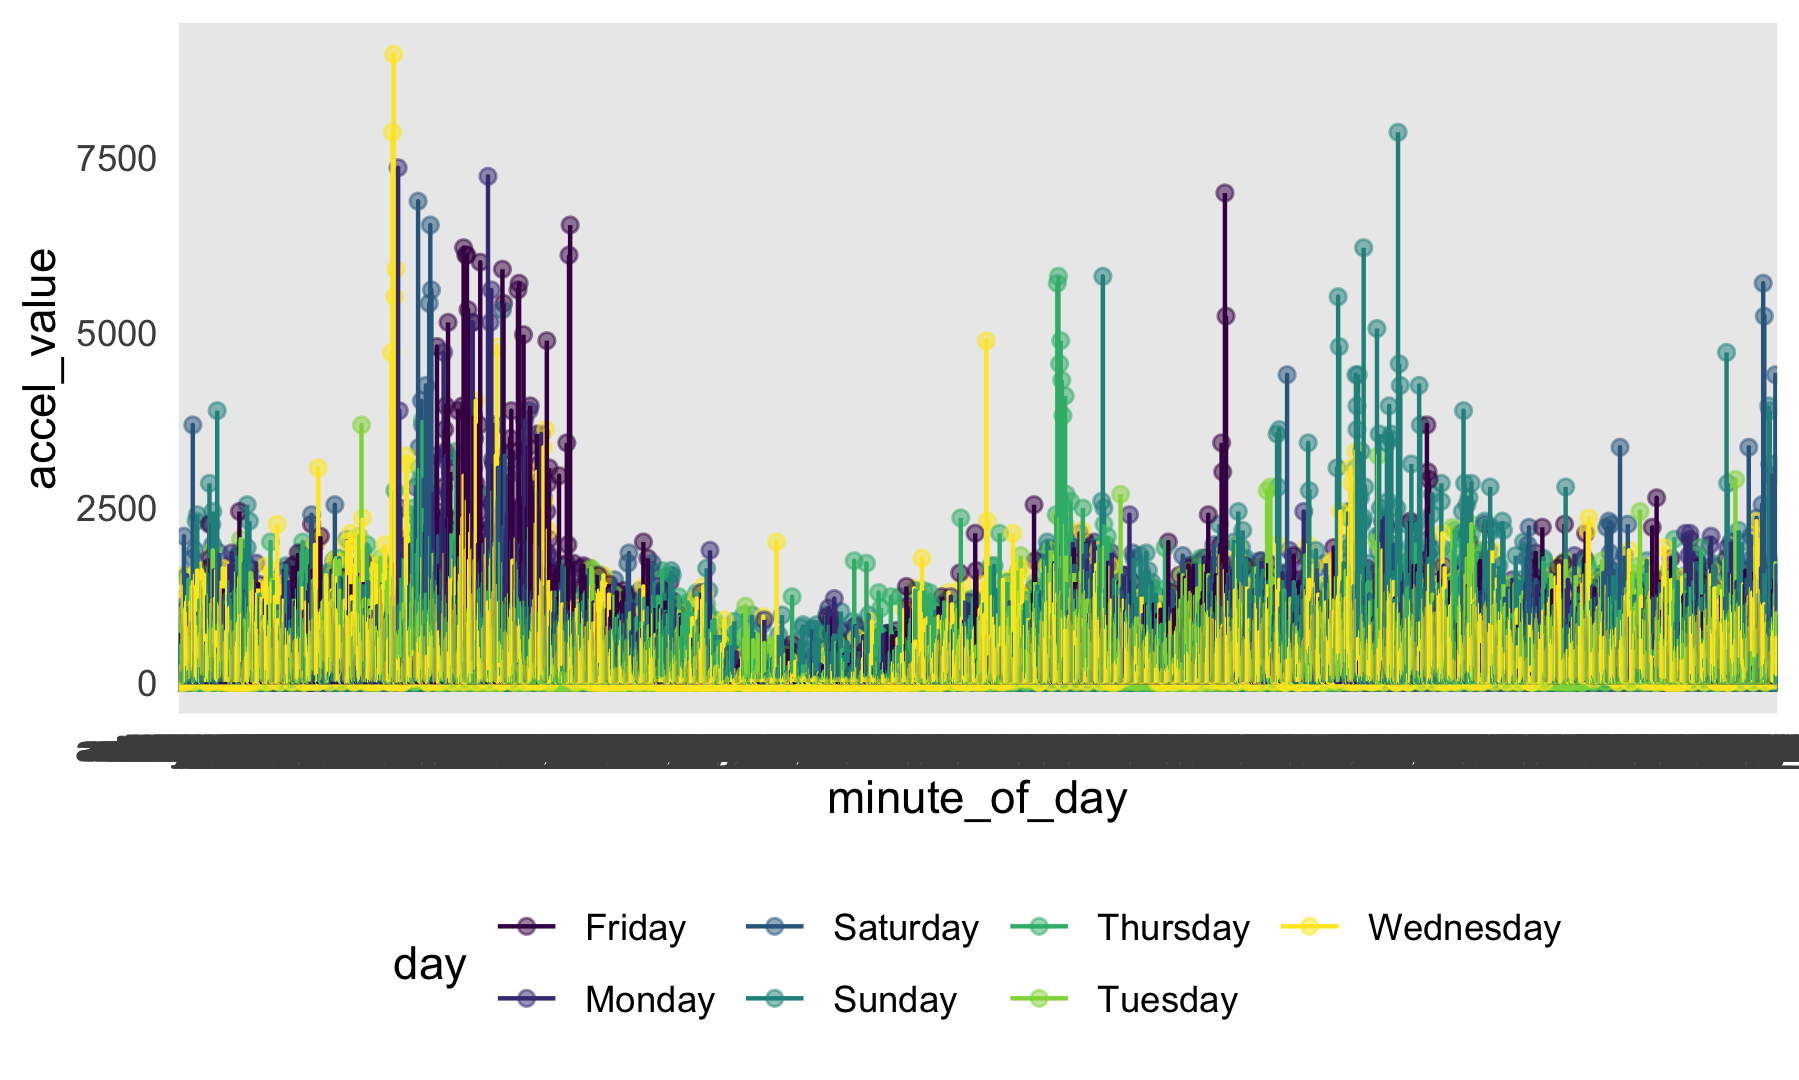
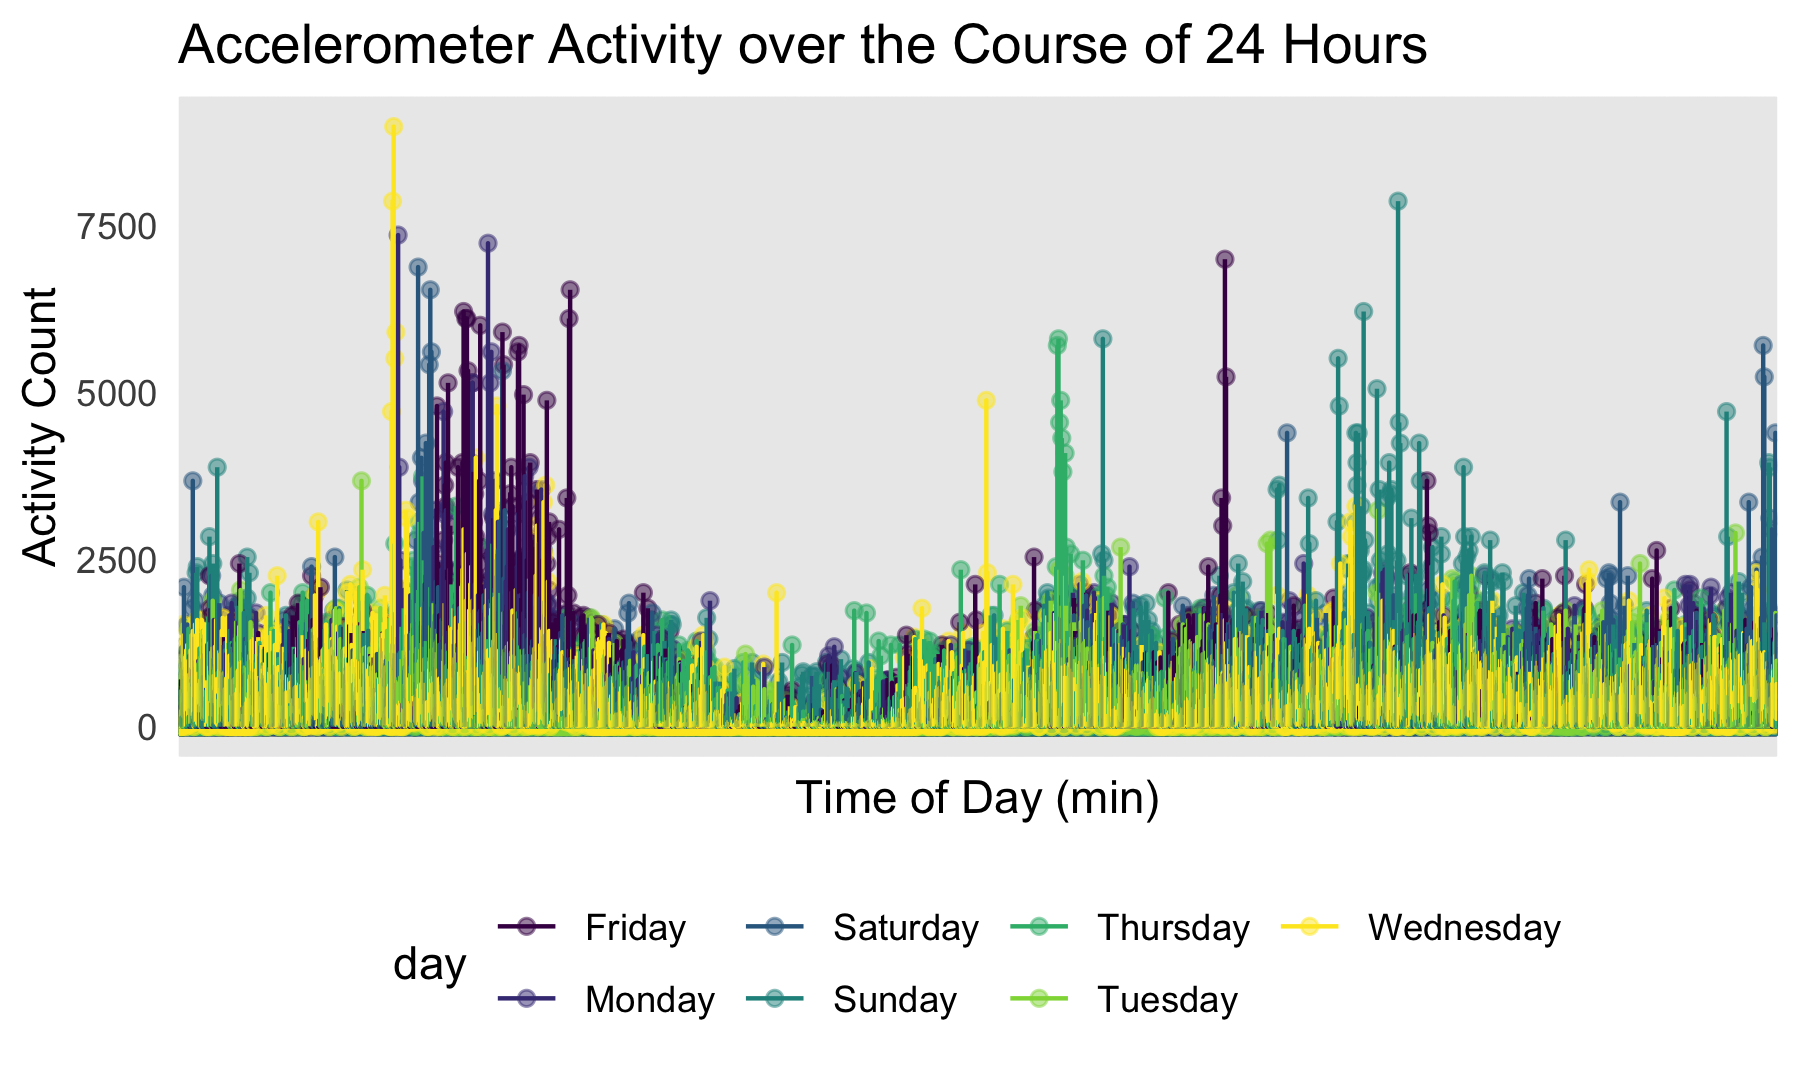
Made edits and added in in-line text

diff --git a/p8105_hw3_mjn2142.md b/p8105_hw3_mjn2142.md
@@ -27,6 +27,8 @@ scale_fill_discrete = scale_fill_viridis_d
 
 ### Problem 1
 
+## Loading Instacart Dataset
+
 ``` r
 library(p8105.datasets)
 data("instacart")
@@ -44,6 +46,8 @@ made clear by this example, important variables take both numeric and
 alphabetic forms. Certain columns will also be made up of distinct data
 while others will have a few highly repeated categories.
 
+## Table Showing Most Items Ordered From
+
 ``` r
 aisle_df = instacart %>% 
   group_by(aisle) %>% 
@@ -55,17 +59,35 @@ There are 134 aisles with “fresh vegetables,” “fresh fruits,” and
 “packaged vegetables fruits” as the three most popular in terms of items
 ordered.
 
+## Plot of Number of Items Ordered in Each Aisle
+
 ``` r
 aisle_plot = aisle_df %>% 
   filter(
     aisle_obs > 10000
   ) %>% 
-  ggplot(aes(x = aisle, y = aisle_obs)) +
-  geom_point()
+  ggplot(aes(x = aisle, y = aisle_obs, color = aisle)) +
+  geom_point() +
+  labs(
+    title = "Items Ordered in Given Aisles",
+    x = "Aisles",
+    y = "Items Ordered"
+  ) +
+  theme(
+    axis.text.x = element_blank(),
+    legend.text = element_text(size = 5)
+    )
+
+ggsave("aisle_plot.png")
+knitr::include_graphics("aisle_plot.png")
 ```
+
+<img src="aisle_plot.png" width="90%" />
 
 Most of the data points are below 40,000 in this plot, with only 5
 aisles that have more than 40,000 items ordered
+
+## Table of Most Popular Items in 3 Specific Aisles
 
 ``` r
 popular_item_df = 
@@ -206,6 +228,8 @@ Sugar (499 orders), the most popular in dog food care is “Snack Sticks
 Chicken & Rice Recipe Dog Treats” (30 orders), and the most poular in
 packaged vegetables fruits is “Organic Baby Spinach” (9784 orders).
 
+## Pink Lady Apple and Coffee Ice Cream Table
+
 ``` r
 apple_icecream_df = instacart %>% 
   mutate(
@@ -330,6 +354,8 @@ appear to present any trend for mean times at which they are ordered.
 
 ### Problem 2
 
+## Cleaning of BRFSS Dataset
+
 ``` r
 data("brfss_smart2010")
 
@@ -364,6 +390,8 @@ brfss_df = brfss_smart2010 %>%
   )
 ```
 
+## Analyzing 2002 and 2010 data
+
 ``` r
 two_thousand_two_df = brfss_df %>% 
   filter(year == "2002") %>% 
@@ -385,6 +413,8 @@ inappropriate to say based on this table alone there was a trend in
 terms of increases or decreases in numbers of locations observed per
 state.
 
+## Plot of Excellent Responses
+
 ``` r
 excellent_df = brfss_df %>% 
   filter(response == "Excellent") %>% 
@@ -393,7 +423,12 @@ excellent_df = brfss_df %>%
   ggplot(aes(x = year, y = data_value_mean, group = locationabbr, color = locationabbr)) +
   geom_point() +
   geom_line(alpha = 0.5) +
-  theme(legend.position = "right")
+  theme(legend.position = "right") +
+  labs(
+    title = "BRFSS Data 2002-2010",
+    x = "Year",
+    y = "Data Value Mean"
+    )
 
 ggsave("excellent_plot.png")
 knitr::include_graphics("excellent_plot.png")
@@ -404,8 +439,10 @@ knitr::include_graphics("excellent_plot.png")
 This spaghetti plot shows that values will both increase as well as
 decrease across the years for a single state.
 
+## Plot of Data Values in NY
+
 ``` r
-ny_df = brfss_df %>% 
+ny_plot = brfss_df %>% 
   filter(
     locationabbr == "NY",
     year == "2006" | year == "2010"
@@ -415,7 +452,15 @@ ny_df = brfss_df %>%
     ) %>% 
   ggplot(aes(x = response, y = data_value, color = year)) +
   geom_point(alpha = 0.5) +
-  facet_grid(.~year)
+  facet_grid(.~year) +
+  labs(
+    title = "Data Value Distribution in NY 2006 and 2010",
+    x = "Response",
+    y = "Data Value"
+  ) +
+  theme(
+    axis.text.x = element_text(size = 7)
+  )
 
 ggsave("ny_plot.png")
 knitr::include_graphics("ny_plot.png")
@@ -429,7 +474,7 @@ most popular responses, “Excellent” being in the middle, and “Fair” and
 
 ### Problem 3
 
-Tidying accelerometer data
+## Tidying accelerometer data
 
 ``` r
 accel_df = read_csv("./accel_data.csv") %>% 
@@ -437,6 +482,7 @@ accel_df = read_csv("./accel_data.csv") %>%
   mutate(
     week_classification = ifelse(day == "Saturday" | day == "Sunday", "Weekend", "Weekday")
   ) %>% 
+  mutate_if(is.numeric, round) %>% 
   relocate(week, day_id, day, week_classification)
 ```
 
@@ -451,7 +497,13 @@ accel_df = read_csv("./accel_data.csv") %>%
     ## ℹ Use `spec()` to retrieve the full column specification for this data.
     ## ℹ Specify the column types or set `show_col_types = FALSE` to quiet this message.
 
-Create aggregate variable
+The tidied accelerometer dataset has variables for week, day\_id, day,
+week\_classification, and then 1440 columns of accelerometer
+representing each minute of the day. The table is 35 rows by 1440
+columns (50,400 observations). The data set is quite large and, notably,
+extremely wide in structure.
+
+## Create aggregate variable
 
 ``` r
 aggregate_accel_df = accel_df %>% 
@@ -461,9 +513,17 @@ aggregate_accel_df = accel_df %>%
   relocate(week, day_id, day, week_classification, aggregate_activity)
 ```
 
-ADD TREND COMMENTS.
+It appears from this data table that the accelerometer was not used on
+certain days. On two days specifically, the sum of all readings equaled
+1440.00, which indicates that the accelerometer had a reading of ‘1’ at
+every meaning of the day. Since 1 is its lowest reportable count, it
+indicates that personal negligence on the part of the participant
+affected the data, and on certain days led to no readings at all. Beyond
+that, it is difficult to draw many conclusions from evaluating the total
+activity for each day, as it seems size in totals don’t neatly
+correspond to specific days of the week.
 
-Accelerometer plot
+## Accelerometer plot
 
 ``` r
 accel_plot = accel_df %>% 
@@ -474,10 +534,21 @@ accel_plot = accel_df %>%
     ) %>% 
   ggplot(aes(x = minute_of_day, y = accel_value, color = day)) +
   geom_point(alpha = 0.5) +
-  geom_line()
+  geom_line() +
+  labs(
+    title = "Accelerometer Activity over the Course of 24 Hours",
+    x = "Time of Day (min)",
+    y = "Activity Count"
+  ) +
+  theme(axis.text.x = element_blank())
 
 ggsave("accel_plot.png")
 knitr::include_graphics("accel_plot.png")
 ```
 
 <img src="accel_plot.png" width="90%" />
+
+Based on this plot, it appears that certain days, such as Tuesday,
+Wednesday, and Thursday, have lower readings during every minute of the
+day. Fridays seem to have high readings very early in the day, and
+Sundays tend to have high readings later in the day.
